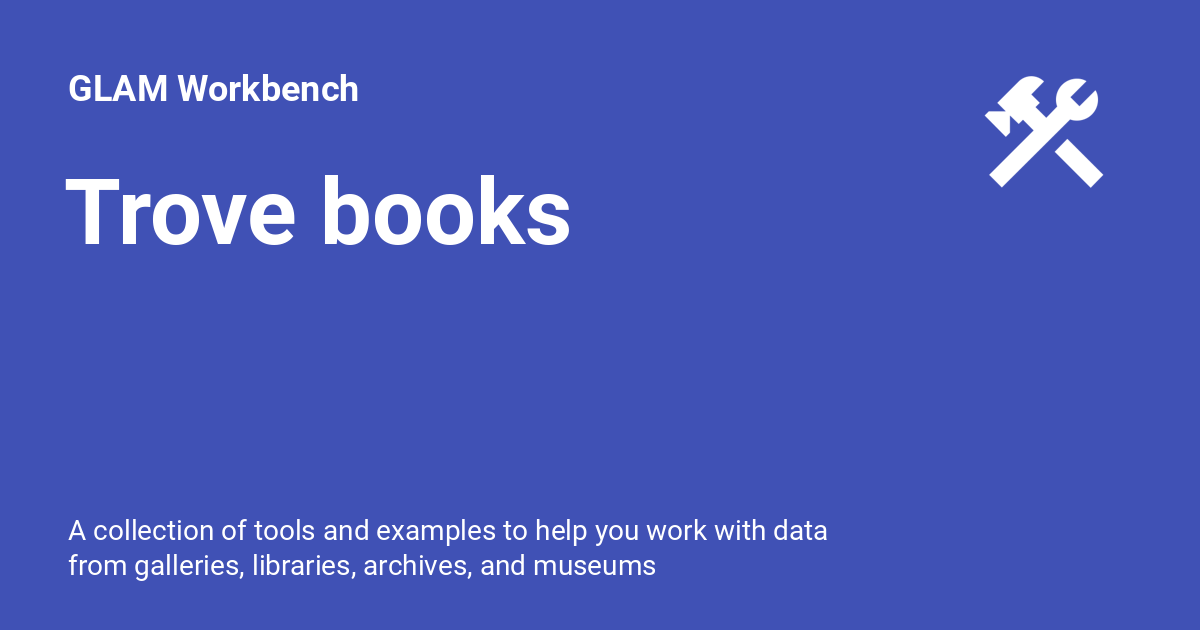
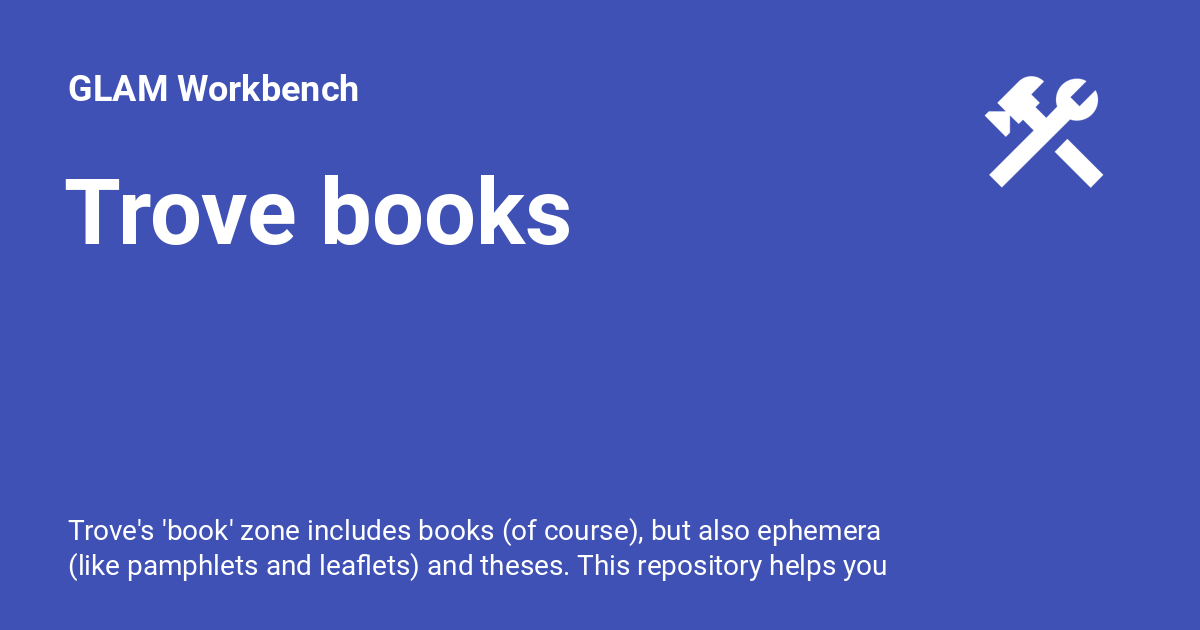
Deployed d7944b8 with MkDocs version: 1.2.3

Changed region(s): [[0.0617, 0.8143, 0.74, 0.9349]]

diff --git a/trove-books/index.html b/trove-books/index.html
@@ -6,7 +6,7 @@
       <meta charset="utf-8">
       <meta name="viewport" content="width=device-width,initial-scale=1">
       
-        <meta name="description" content="A collection of tools and examples to help you work with data from galleries, libraries, archives, and museums">
+        <meta name="description" content="Trove's 'book' zone includes books (of course), but also ephemera (like pamphlets and leaflets) and theses. This repository helps you harvest and explore fulltext and metadata from Trove books.">
       
       
         <meta name="author" content="Tim Sherratt">
@@ -62,7 +62,7 @@
       
         <meta  property="og:title"  content="Trove books - GLAM Workbench" >
       
-        <meta  property="og:description"  content="A collection of tools and examples to help you work with data from galleries, libraries, archives, and museums" >
+        <meta  property="og:description"  content="Trove's 'book' zone includes books (of course), but also ephemera (like pamphlets and leaflets) and theses. This repository helps you harvest and explore fulltext and metadata from Trove books." >
       
         <meta  property="og:image"  content="https://glam-workbench.net/assets/images/social/trove-books/index.png" >
       
@@ -78,7 +78,7 @@
       
         <meta  name="twitter:title"  content="Trove books - GLAM Workbench" >
       
-        <meta  name="twitter:description"  content="A collection of tools and examples to help you work with data from galleries, libraries, archives, and museums" >
+        <meta  name="twitter:description"  content="Trove's 'book' zone includes books (of course), but also ephemera (like pamphlets and leaflets) and theses. This repository helps you harvest and explore fulltext and metadata from Trove books." >
       
         <meta  name="twitter:image"  content="https://glam-workbench.net/assets/images/social/trove-books/index.png" >
       
